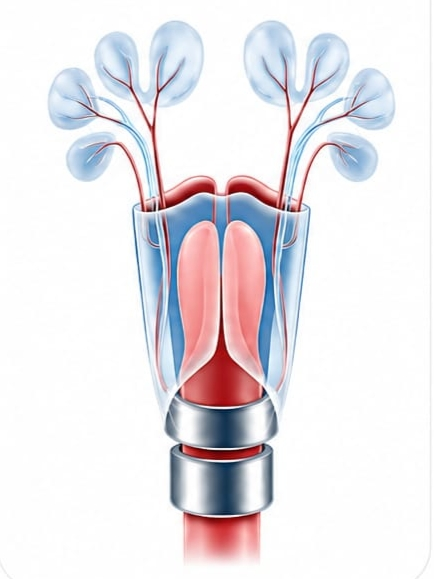
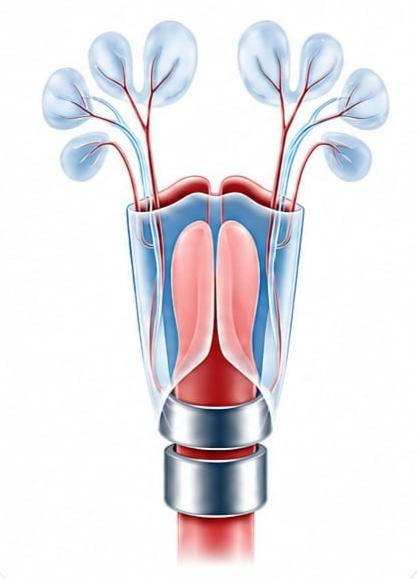
tambah gambar dan setting landing  page

diff --git a/assets/style/style.css b/assets/style/style.css
@@ -429,11 +429,19 @@ section h2::after {
     position: relative;
     overflow: hidden;
 }
-
-.card-img-wrapper img {
+.card-img-wrapper {
     width: 100%;
     height: 200px;
-    object-fit: cover;
+    display: flex;
+    justify-content: center;
+    align-items: center;
+    overflow: hidden;
+}
+
+.card-img-wrapper img {
+    width: 85%;
+    height: 85%;
+    object-fit: contain;
     display: block;
     transition: var(--transition);
 }

diff --git a/landing.php b/landing.php
@@ -187,7 +187,7 @@ session_start();
             <!-- CARD TELINGA -->
             <div class="card">
                 <div class="card-img-wrapper">
-                    <img src="assets/images/telinga.jfif" alt="Telinga">
+                    <img src="assets/images/telinga.png" alt="Telinga">
                     <span class="card-badge">🦻</span>
                 </div>
                 <div class="card-body">
@@ -205,7 +205,7 @@ session_start();
             <!-- CARD HIDUNG -->
             <div class="card">
                 <div class="card-img-wrapper">
-                    <img src="../assets/images/hidung.jfif" alt="Hidung">
+                    <img src="assets/images/hidung.png" alt="Hidung">
                     <span class="card-badge">👃</span>
                 </div>
                 <div class="card-body">
@@ -223,7 +223,7 @@ session_start();
             <!-- CARD TENGGOROKAN -->
             <div class="card">
                 <div class="card-img-wrapper">
-                    <img src="../assets/images/tenggorokan.png" alt="Tenggorokan">
+                    <img src="assets/images/tenggorokan.png" alt="Tenggorokan">
                     <span class="card-badge">🗣️</span>
                 </div>
                 <div class="card-body">
@@ -253,7 +253,7 @@ session_start();
             <!-- FEATURED CARD -->
             <div class="news-featured">
                 <div class="news-featured-img">
-                    <img src="assets/images/telinga.jfif" alt="Berita Telinga">
+                    <img src="assets/images/telinga.png" alt="Berita Telinga">
                     <!-- <span class="news-badge">⭐ Featured</span> -->
                 </div>
                 <div class="news-featured-body">
@@ -275,7 +275,7 @@ session_start();
             <div class="news-side">
 
                 <div class="news-side-card">
-                    <img src="assets/images/hidung.jfif" alt="Berita Hidung">
+                    <img src="assets/images/hidung.png" alt="Berita Hidung">
                     <div class="news-side-body">
                         <span class="news-meta">📅 Mei 2026</span>
                         <h4>Tips Menjaga Kesehatan Hidung</h4>
@@ -291,7 +291,7 @@ session_start();
                 </div>
 
                 <div class="news-side-card">
-                    <img src="assets/images/tenggorokan.jfif" alt="Berita Tenggorokan">
+                    <img src="assets/images/tenggorokan.png" alt="Berita Tenggorokan">
                     <div class="news-side-body">
                         <span class="news-meta">📅 Mei 2026</span>
                         <h4>Tips Menjaga Kesehatan Tenggorokan</h4>
@@ -323,7 +323,7 @@ session_start();
             <!-- MEMBER 1 -->
             <div class="member-card">
                 <div class="member-img-ring">
-                    <img src="https://randomuser.me/api/portraits/women/44.jpg" alt="Chelsy">
+                    <img src="assets/images/celoo.png" alt="Chelsy">
                 </div>
                 <h4>Chelsy Celomitha A.W</h4>
                 <p class="nim">(G43252217)</p>
@@ -342,7 +342,7 @@ session_start();
             <!-- MEMBER 2 -->
             <div class="member-card">
                 <div class="member-img-ring">
-                    <img src="https://randomuser.me/api/portraits/women/68.jpg" alt="Azza">
+                    <img src="assets/images/ziffa.png" alt="Azza">
                 </div>
                 <h4>Azza Nayla N.R</h4>
                 <p class="nim">(G43251965)</p>
@@ -361,7 +361,7 @@ session_start();
             <!-- MEMBER 3 -->
             <div class="member-card">
                 <div class="member-img-ring">
-                    <img src="https://randomuser.me/api/portraits/women/65.jpg" alt="Inka">
+                    <img src="assets/images/inka.png" alt="Inka">
                 </div>
                 <h4>Inka Julieta P.</h4>
                 <p class="nim">(G43251918)</p>
@@ -380,7 +380,7 @@ session_start();
             <!-- MEMBER 4 -->
             <div class="member-card">
                 <div class="member-img-ring">
-                    <img src="https://randomuser.me/api/portraits/women/47.jpg" alt="Maharani">
+                    <img src="assets/images/rara.png" alt="Maharani">
                 </div>
                 <h4>Maharani A.A</h4>
                 <p class="nim">(G43252053)</p>